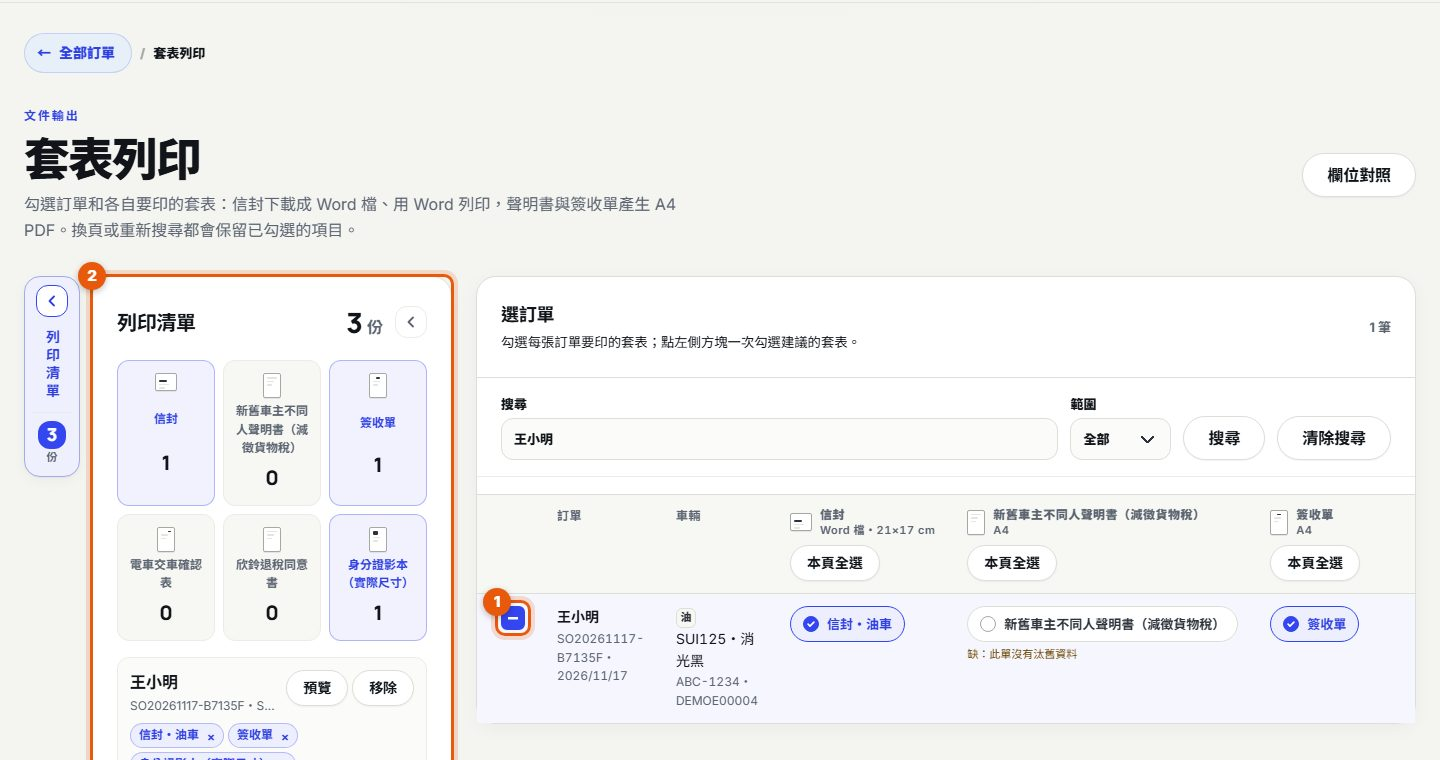
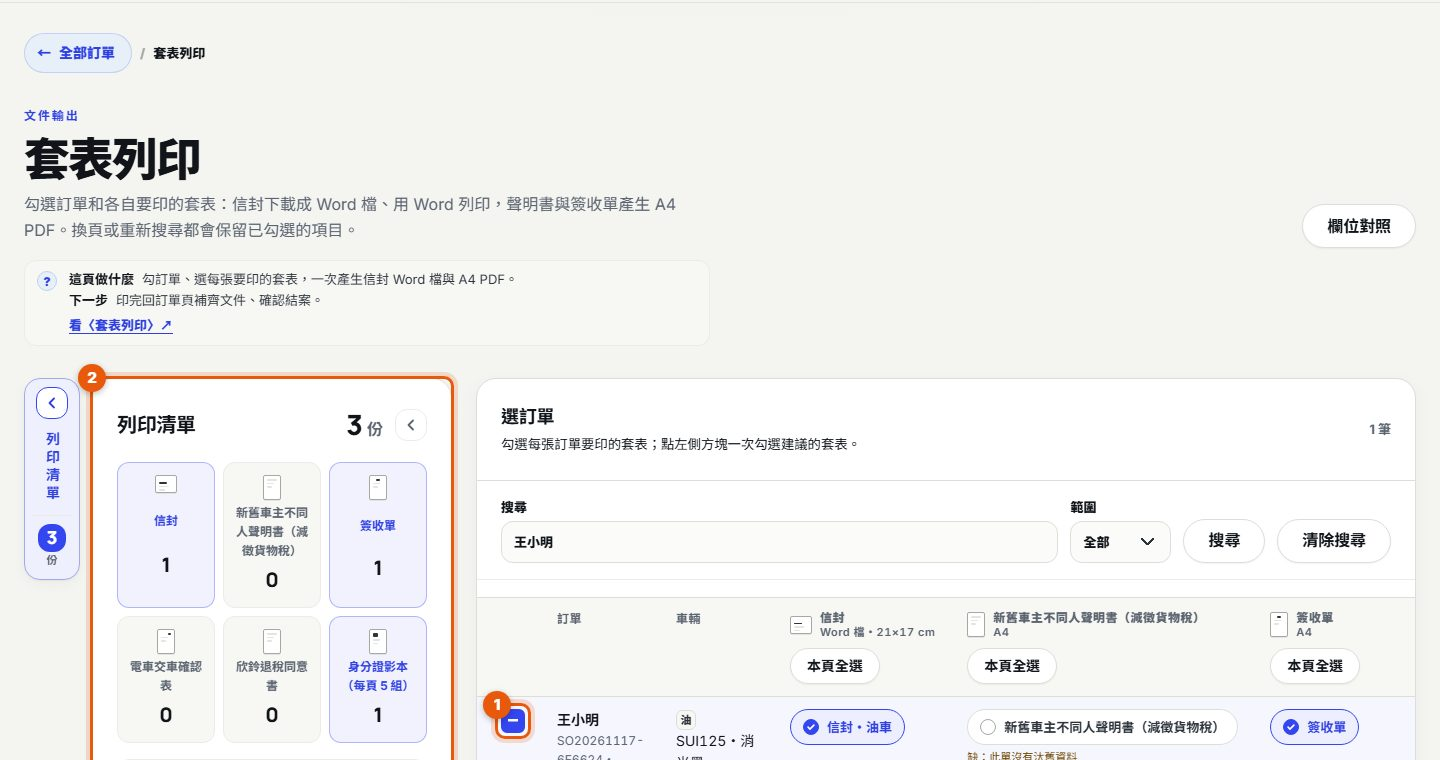
T-208 說明文章、手冊與商業規則：身分證影本每頁 5 組、備註與單張列印入口

diff --git a/sales/help/articles.py b/sales/help/articles.py
@@ -160,17 +160,18 @@ ARTICLES = (
         slug="form-print", title="套表列印", group="sometimes",
         when="要一次印好幾張訂單的信封、聲明書、簽收單或身分證影本時。", minutes="約 3 分鐘",
         example=Example("王小明交車後，要印信封、簽收單和身分證影本。",
-                        facts=(("信封", "油車版，下載 Word 檔"), ("簽收單", "A4 PDF"), ("身分證影本", "A4 PDF，實際尺寸"))),
+                        facts=(("信封", "油車版，下載 Word 檔"), ("簽收單", "A4 PDF"), ("身分證影本", "A4 PDF，每頁 5 組"))),
         steps=(
             Step("到 [[全部訂單]]，按頁首的 [[套表列印]]，用搜尋或「範圍」（進行中／已交車／全部）找到訂單。", "搜尋「王小明」、範圍「全部」。"),
             Step("勾選每張訂單要印的套表。點該列最左邊的方塊，會一次勾好建議的套表；身分證影本要另外勾。",
                  "勾好信封・油車、簽收單，再勾身分證影本，左側列印清單顯示 3 份。",
                  Figure("mainline/07-formprint-select.jpg", "勾選訂單列與左側列印清單", "① 一次勾建議的套表　② 列印清單")),
-            Step("按 [[預覽]]（或按 P）逐頁檢查。身分證影本要調裁切，在預覽裡點證件。", "共 3 頁：簽收單、身分證影本、信封。",
-                 Figure("mainline/10-formprint-idcopy.jpg", "預覽中的身分證影本頁", "身分證影本依實際尺寸 85.6 × 54 mm 排列")),
+            Step("身分證影本會在左側列印清單多一格「影本備註」，預設帶車行或平台名稱和車主電話（本店單只有電話），可以改，不會存進訂單。按 [[預覽]]（或按 P）逐頁檢查；要調裁切，在預覽裡點證件。",
+                 "共 3 頁：簽收單、身分證影本、信封。勾 6 張訂單的身分證影本時，影本會排成 2 頁（5 組＋1 組）。",
+                 Figure("mainline/10-formprint-idcopy.jpg", "預覽中的身分證影本頁", "身分證影本每頁 5 組，正反面並排、右側是備註")),
             Step("信封按 [[下載信封 Word 檔]]，用 Word 列印；其他套表按 [[開啟 A4 PDF 列印]]，在新分頁列印。", "",
                  Figure("mainline/09-formprint-preview.jpg", "預覽視窗底部的下載與列印按鈕", "④ 下載信封 Word 檔　⑤ 開啟 A4 PDF 列印"),
-                 note="身分證影本列印時，縮放一定要選「實際大小」。"),
+                 note="身分證影本列印時，縮放一定要選「實際大小」，卡片才會是 82.7 × 52.2 mm。只印一張訂單的影本，也可以在訂單的「列印與簽署文件」按 [[列印身分證影本]]。"),
         ),
         done="印完就好，訂單資料不會被改動。電車信封（含車控密碼）、退稅同意書、身分證影本與在預覽中調整裁切，會記在訂單處理紀錄。",
         next_slug="close",

diff --git a/docs/context/BUSINESS_RULES.md b/docs/context/BUSINESS_RULES.md
@@ -33,7 +33,7 @@
 - 優先配車月數由 admin 在「管理者工具 › 配車規則」設定（預設 3、範圍 1～24，`services/system_settings.py`，修改留紀錄）。
 - 配車順序：優先配車排最前，同級再依出廠年月舊到新（未填排最後）、進車日。出廠年月超過 3 個月（月份精度，2026/10 時為 2026/06 以前）自動優先、標「自動」且不能關閉；未滿者人員可在庫存列表手動開啟（`allocation_priority_override=True`，標「人工」，到期後仍為人工），手動關閉即清除、回到依車齡判斷（到期自動開啟）。舊的人工關閉值（False）不再生效。切換寫入庫存異動。同級未選最早出廠、本單非排第一或有優先配車卻選一般車，都只提醒、不必填原因，系統把偵測到的情形記入配車事件（2026-10-21 T-39）。配車畫面預選排第一的建議車輛（改配不預選）。入口 `AllocationForm`、`annotate_allocation_priority`、`test_allocation_priority.py`。
 - 車輛來源：庫存分「公司進車」（預設，既有資料皆是）與「車行調車」（`acquisition_type`），調車必填來源車行名稱（`transfer_source_name`，自由輸入，提示既有名稱與啟用車行）。兩者同列現有庫存、配車與優先配車；只作區分與顯示，不影響成本、佣金或報表。與 `current_dealer`（車放在哪個車行）無關。入口 `VehicleInventory.clean`、`test_inventory_acquisition.py`。
-- 證件照片裁切（2026-11-16 T-190 方案 A）：原始照片不改，只存裁切參數 `id_front_crop`／`id_back_crop`（訂單與草稿；四角 0–1 座標＋上緣 turn，NULL＝未裁切，舊單不回填）。辨識前在伺服器自動偵測四角並轉正（`services/id_card_crop.py`，移植自使用者的身分證排版工具），裁切後看不出證件特徵就退回整張四角度辨識；國民身分證依大頭照／條碼判斷上下，居留證只轉橫式、上下由 OCR 判斷。照片更換或移除時參數作廢；訂單頁調整寫 `OrderEvent` `id_crop_adjusted`，不進異動明細。套表「身分證影本（實際尺寸）」（2.13.0）：本國自然人與居留者、有照片才可選，每單一頁、正反面 85.6×54 mm 並排、不加浮水印；沒有參數時列印當下自動偵測、不寫回；預覽點證件調整走 `form_print_id_crop`（存回訂單、`revision`＋1、記 `id_crop_adjusted`），列印記 `identity_copy_printed`。參數另存 `needs_review`（低信心門檻見 `id_card_crop.REVIEW_*`；手動／套用後清除，辨識強特徵也清除），三處顯示共用 `stored_or_auto_params`（沒存參數時偵測結果放快取、不寫回）；附件與唯讀訂單明細用 `protected_media?card=1`（權限同原圖）。測試 `test_id_card_crop.py`、`test_id_crop_flow.py`、`test_form_print_id_copy.py`、`test_id_crop_review.py`。
+- 證件照片裁切（2026-11-16 T-190 方案 A）：原始照片不改，只存裁切參數 `id_front_crop`／`id_back_crop`（訂單與草稿；四角 0–1 座標＋上緣 turn，NULL＝未裁切，舊單不回填）。辨識前在伺服器自動偵測四角並轉正（`services/id_card_crop.py`，移植自使用者的身分證排版工具），裁切後看不出證件特徵就退回整張四角度辨識；國民身分證依大頭照／條碼判斷上下，居留證只轉橫式、上下由 OCR 判斷。照片更換或移除時參數作廢；訂單頁調整寫 `OrderEvent` `id_crop_adjusted`，不進異動明細。套表「身分證影本（每頁 5 組）」（2.13.0；2.20.0 T-208 改照身分證排版工具 A4Layout）：本國自然人與居留者、有照片才可選；每列一組（左正面、右反面、最右備註），卡寬 82.7 mm 等比、上下邊界 6 mm、每頁 5 組，多張依序併頁；只印卡片、裁切線與備註，缺照片的一面留白；備註預設車行／平台名稱＋車主電話（本店只放電話），列印時當場改、不保存（16→12 pt 自動縮字，`services/id_copy_note.py`）；單張訂單從「列印與簽署文件」進 `order_id_copy`；不加浮水印；沒有參數時列印當下自動偵測、不寫回；預覽點證件調整走 `form_print_id_crop`（存回訂單、`revision`＋1、記 `id_crop_adjusted`），列印記 `identity_copy_printed`。參數另存 `needs_review`（低信心門檻見 `id_card_crop.REVIEW_*`；手動／套用後清除，辨識強特徵也清除），三處顯示共用 `stored_or_auto_params`（沒存參數時偵測結果放快取、不寫回）；附件與唯讀訂單明細用 `protected_media?card=1`（權限同原圖）。測試 `test_id_card_crop.py`、`test_id_crop_flow.py`、`test_form_print_id_copy.py`、`test_id_crop_review.py`。
 - 草稿可見範圍依訂單範圍（`order_intake.scoped_drafts`，2026-11-17 T-202 依程式更正）：「我的接待草稿」只列自己的；「全部訂單」的草稿列，訂單範圍設「全公司」（或沒設定訂單範圍）且有全部訂單權限的人看得到所有人的草稿，其他人只看自己的；接續填寫仍限建立人。admin 可在「全部訂單 → 草稿清理」看所有人的草稿（不顯示客戶資料），勾選確認後刪除（備註選填），連同暫存證件照，寫入帳號稽核紀錄（動作「刪除草稿」）；90 秒內有他人編輯心跳時不能刪。入口 `sales/services/draft_cleanup.py`、`test_draft_cleanup.py`。
 - 配車：一般從「待配車」配車；Excel 匯入後因無車牌改回「待交車」、從未配車且未完成領牌的訂單也可直接配車，配車後回到「已配車 → 領牌 → 交車」一般流程（2026-10-12）。
 - 取消配車（2026-11-06 T-122 A＋B，`SalesOrder.unallocate`）：配車步驟「取消配車」按鈕先確認；已配車的單在訂單頁改車型／車色時先問「已經配了某台車（引擎號碼），確定要換車嗎？」，按確定才同一交易取消原配車並存新車型／車色，按取消維持原樣。已交車、結案、取消、例外結案或已開始領牌（車牌、領牌完成、領牌文件）不能取消，畫面寫出原因。車輛已預留→可銷售並寫車輛歷程；訂單回到待配車（匯入重開的待交車舊單維持待交車），依原接單時間排隊；留 OrderEvent `unallocated` 與 OrderChange。預估成本、傭金依車型與領牌日計算、不綁實體車，取消配車不改收支；改車型後存檔照舊依新車型重算。權限同配車／改配（work 操作）。

diff --git a/docs/USER_MANUAL.md b/docs/USER_MANUAL.md
@@ -1032,7 +1032,7 @@ _約 3 分鐘・4 個步驟_
 
 - 信封：油車版，下載 Word 檔
 - 簽收單：A4 PDF
-- 身分證影本：A4 PDF，實際尺寸
+- 身分證影本：A4 PDF，每頁 5 組
 
 ### 怎麼做
 
@@ -1045,14 +1045,14 @@ _約 3 分鐘・4 個步驟_
    ![勾選訂單列與左側列印清單](../static/help/screens/mainline/07-formprint-select.jpg)
    _① 一次勾建議的套表　② 列印清單_
 
-3. 按「預覽」（或按 P）逐頁檢查。身分證影本要調裁切，在預覽裡點證件。
-   - 範例：共 3 頁：簽收單、身分證影本、信封。
+3. 身分證影本會在左側列印清單多一格「影本備註」，預設帶車行或平台名稱和車主電話（本店單只有電話），可以改，不會存進訂單。按「預覽」（或按 P）逐頁檢查；要調裁切，在預覽裡點證件。
+   - 範例：共 3 頁：簽收單、身分證影本、信封。勾 6 張訂單的身分證影本時，影本會排成 2 頁（5 組＋1 組）。
 
    ![預覽中的身分證影本頁](../static/help/screens/mainline/10-formprint-idcopy.jpg)
-   _身分證影本依實際尺寸 85.6 × 54 mm 排列_
+   _身分證影本每頁 5 組，正反面並排、右側是備註_
 
 4. 信封按「下載信封 Word 檔」，用 Word 列印；其他套表按「開啟 A4 PDF 列印」，在新分頁列印。
-   - 身分證影本列印時，縮放一定要選「實際大小」。
+   - 身分證影本列印時，縮放一定要選「實際大小」，卡片才會是 82.7 × 52.2 mm。只印一張訂單的影本，也可以在訂單的「列印與簽署文件」按「列印身分證影本」。
 
    ![預覽視窗底部的下載與列印按鈕](../static/help/screens/mainline/09-formprint-preview.jpg)
    _④ 下載信封 Word 檔　⑤ 開啟 A4 PDF 列印_
